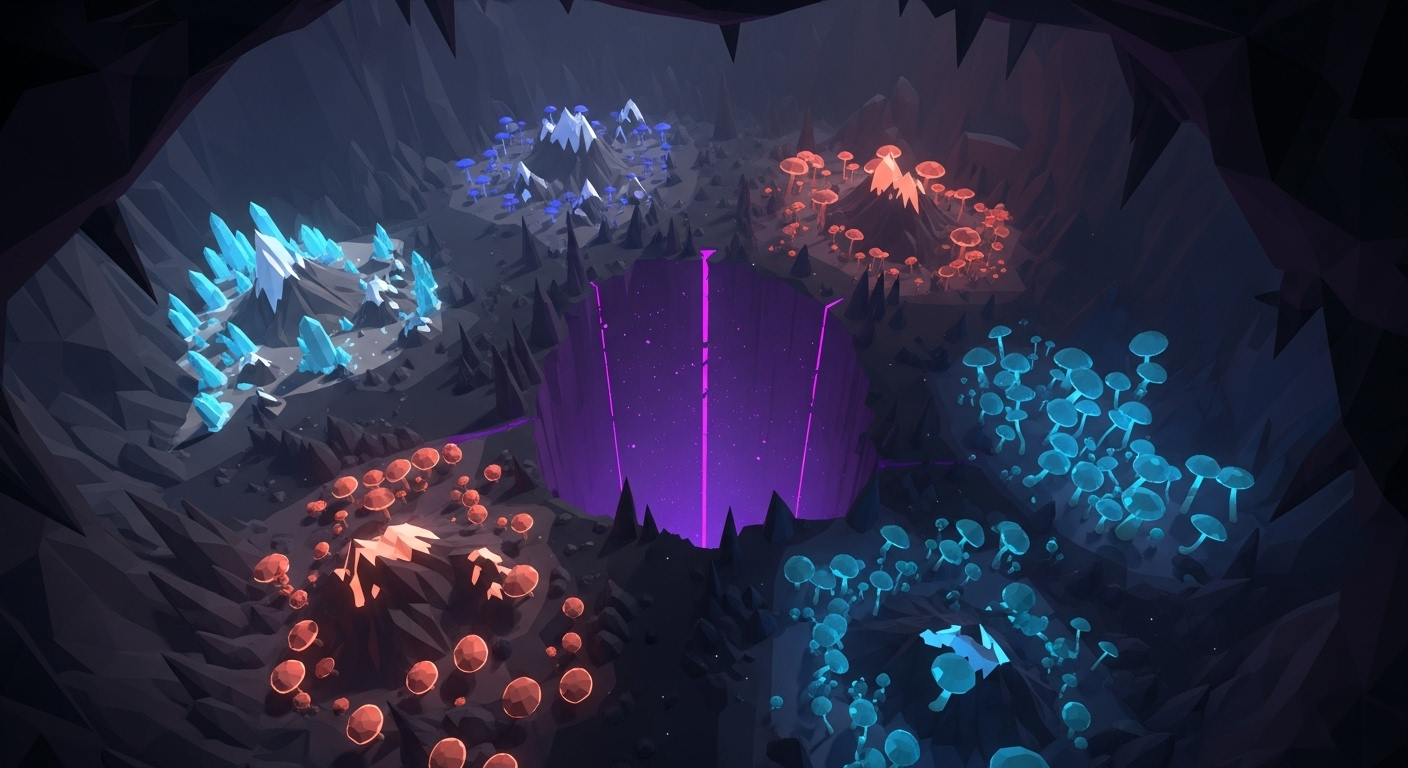
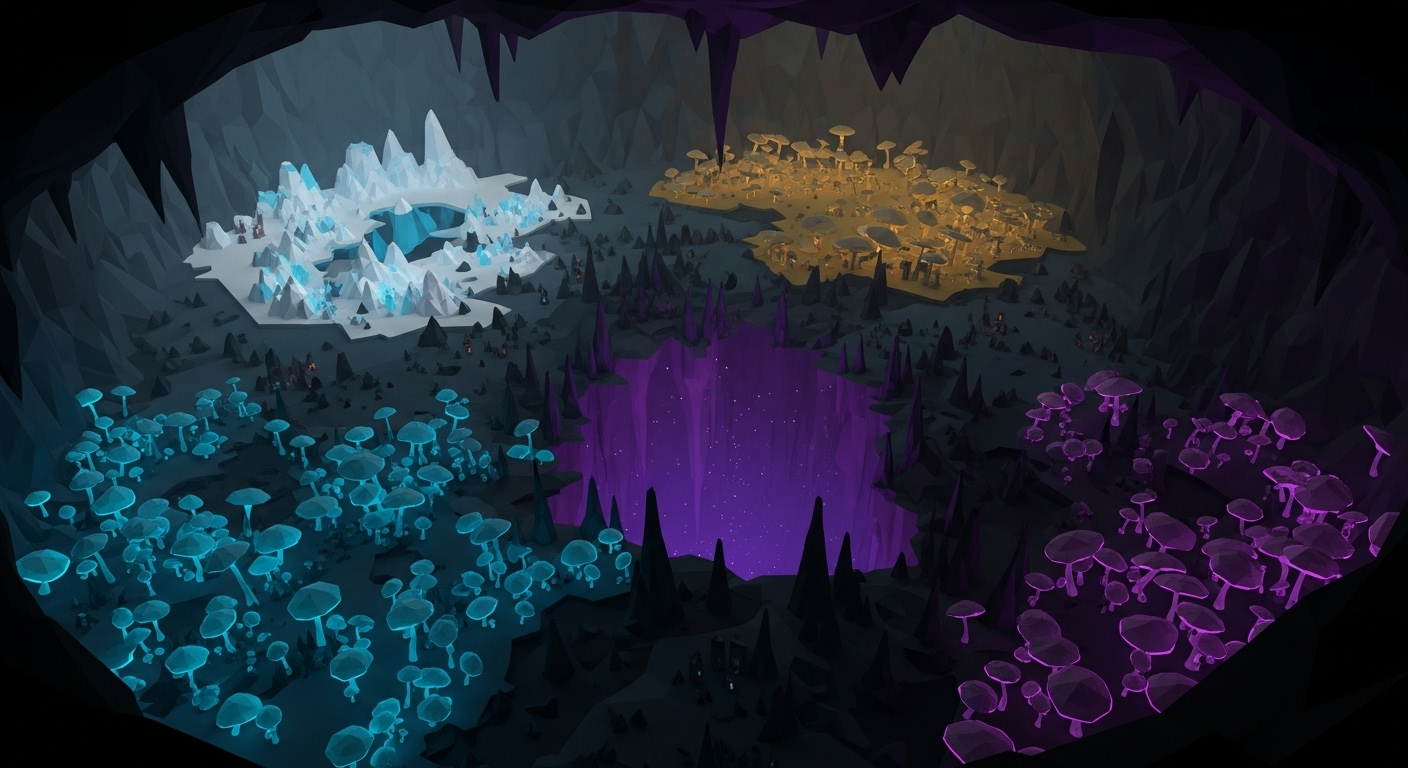
realms and sub realms images added

diff --git a/data/realms.js b/data/realms.js
@@ -10,7 +10,7 @@ export const REALMS = [
         zones: {
             "green_meadows": {
                 name: "Green Meadows",
-                mapImage: "images/map_meadows_zoomed.png",
+                mapImage: "images/backgrounds/sub_zone/map_meadows_zoomed.png",
                 monsterAreaBg: "images/backgrounds/bg_green_meadows.png",
                 coords: { top: '78%', left: '20%' },
                 icon: 'images/icons/green_meadows.png',
@@ -35,7 +35,7 @@ export const REALMS = [
             },
             "orc_volcano": {
                 name: "Orc Volcano",
-                mapImage: "images/map_volcano_zoomed.png",
+                mapImage: "images/backgrounds/sub_zone/map_volcano_zoomed.png",
                 monsterAreaBg: "images/backgrounds/bg_orc_volcano.png",
                 coords: { top: '30%', left: '38%' },
                 icon: 'images/icons/orc_volcano.png',
@@ -60,7 +60,7 @@ export const REALMS = [
             },
             "undead_desert": {
                 name: "Undead Desert",
-                mapImage: "images/map_desert_zoomed.png",
+                mapImage: "images/backgrounds/sub_zone/map_desert_zoomed.png",
                 monsterAreaBg: "images/backgrounds/bg_undead_desert.png",
                 coords: { top: '70%', left: '75%' },
                 icon: 'images/icons/undead_desert.png',
@@ -85,7 +85,7 @@ export const REALMS = [
             },
             "final_dungeon": {
                 name: "Final Dungeon",
-                mapImage: "images/map_dungeon_zoomed.png",
+                mapImage: "images/backgrounds/sub_zone/map_dungeon_zoomed.png",
                 monsterAreaBg: "images/backgrounds/bg_final_dungeon.png",
                 coords: { top: '22%', left: '78%' },
                 icon: 'images/icons/final_dungeon.png',
@@ -180,7 +180,7 @@ export const REALMS = [
             },
             "abyssal_rift": {
                 name: "Abyssal Rift",
-                mapImage: "images/map_abyss_zoomed.png",
+                mapImage: "images/backgrounds/sub_zone/map_abyss_zoomed.png",
                 monsterAreaBg: "images/backgrounds/bg_abyss.png",
                 coords: { top: '15%', left: '85%' },
                 icon: 'images/icons/sword.png',
@@ -202,7 +202,7 @@ export const REALMS = [
         zones: {
             "tide_wracked_coast": {
                 name: "Tide-Wracked Coast",
-                mapImage: "images/map_caves_zoomed.png", // Placeholder
+                mapImage: "images/backgrounds/sub_zone/map_caves_zoomed.png", // Placeholder
                 monsterAreaBg: "images/backgrounds/bg_caves.png", // Placeholder
                 coords: { top: '78%', left: '20%' }, // Placeholder
                 icon: 'images/icons/green_meadows.png', // Placeholder
@@ -217,7 +217,7 @@ export const REALMS = [
             },
             "sunken_city": {
                 name: "Sunken City",
-                mapImage: "images/map_volcano_zoomed.png", // Placeholder
+                mapImage: "images/backgrounds/sub_zone/map_volcano_zoomed.png", // Placeholder
                 monsterAreaBg: "images/backgrounds/bg_orc_volcano.png", // Placeholder
                 coords: { top: '30%', left: '38%' }, // Placeholder
                 icon: 'images/icons/orc_volcano.png', // Placeholder
@@ -232,7 +232,7 @@ export const REALMS = [
             },
             "bioluminescent_trench": {
                 name: "Bioluminescent Trench",
-                mapImage: "images/map_desert_zoomed.png", // Placeholder
+                mapImage: "images/backgrounds/sub_zone/map_desert_zoomed.png", // Placeholder
                 monsterAreaBg: "images/backgrounds/bg_undead_desert.png", // Placeholder
                 coords: { top: '70%', left: '75%' }, // Placeholder
                 icon: 'images/icons/undead_desert.png', // Placeholder
@@ -247,7 +247,7 @@ export const REALMS = [
             },
             "void_maw": {
                 name: "Void Maw",
-                mapImage: "images/map_dungeon_zoomed.png", // Placeholder
+                mapImage: "images/backgrounds/sub_zone/map_dungeon_zoomed.png", // Placeholder
                 monsterAreaBg: "images/backgrounds/bg_final_dungeon.png", // Placeholder
                 coords: { top: '22%', left: '78%' }, // Placeholder
                 icon: 'images/icons/final_dungeon.png', // Placeholder
@@ -269,7 +269,7 @@ export const REALMS = [
         zones: {
             "azure_pathway": {
                 name: "Azure Pathway",
-                mapImage: "images/map_caves_zoomed.png", // Placeholder
+                mapImage: "images/backgrounds/sub_zone/map_caves_zoomed.png", // Placeholder
                 monsterAreaBg: "images/backgrounds/bg_caves.png", // Placeholder
                 coords: { top: '78%', left: '20%' }, // Placeholder
                 icon: 'images/icons/green_meadows.png', // Placeholder
@@ -284,7 +284,7 @@ export const REALMS = [
             },
             "halls_of_valor": {
                 name: "Halls of Valor",
-                mapImage: "images/map_volcano_zoomed.png", // Placeholder
+                mapImage: "images/backgrounds/sub_zone/map_volcano_zoomed.png", // Placeholder
                 monsterAreaBg: "images/backgrounds/bg_orc_volcano.png", // Placeholder
                 coords: { top: '30%', left: '38%' }, // Placeholder
                 icon: 'images/icons/orc_volcano.png', // Placeholder
@@ -299,7 +299,7 @@ export const REALMS = [
             },
             "astral_sea": {
                 name: "Astral Sea",
-                mapImage: "images/map_desert_zoomed.png", // Placeholder
+                mapImage: "images/backgrounds/sub_zone/map_desert_zoomed.png", // Placeholder
                 monsterAreaBg: "images/backgrounds/bg_undead_desert.png", // Placeholder
                 coords: { top: '70%', left: '75%' }, // Placeholder
                 icon: 'images/icons/undead_desert.png', // Placeholder
@@ -314,7 +314,7 @@ export const REALMS = [
             },
             "empyrean_throne": {
                 name: "Empyrean Throne",
-                mapImage: "images/map_dungeon_zoomed.png", // Placeholder
+                mapImage: "images/backgrounds/sub_zone/map_dungeon_zoomed.png", // Placeholder
                 monsterAreaBg: "images/backgrounds/bg_final_dungeon.png", // Placeholder
                 coords: { top: '22%', left: '78%' }, // Placeholder
                 icon: 'images/icons/final_dungeon.png', // Placeholder
@@ -336,7 +336,7 @@ export const REALMS = [
         zones: {
             "mana_wastes": {
                 name: "Mana Wastes",
-                mapImage: "images/map_caves_zoomed.png", // Placeholder
+                mapImage: "images/backgrounds/sub_zone/map_caves_zoomed.png", // Placeholder
                 monsterAreaBg: "images/backgrounds/bg_caves.png", // Placeholder
                 coords: { top: '78%', left: '20%' }, // Placeholder
                 icon: 'images/icons/green_meadows.png', // Placeholder
@@ -351,7 +351,7 @@ export const REALMS = [
             },
             "clockwork_city": {
                 name: "Clockwork City",
-                mapImage: "images/map_volcano_zoomed.png", // Placeholder
+                mapImage: "images/backgrounds/sub_zone/map_volcano_zoomed.png", // Placeholder
                 monsterAreaBg: "images/backgrounds/bg_orc_volcano.png", // Placeholder
                 coords: { top: '30%', left: '38%' }, // Placeholder
                 icon: 'images/icons/orc_volcano.png', // Placeholder
@@ -366,7 +366,7 @@ export const REALMS = [
             },
             "rune_scriptorium": {
                 name: "Rune Scriptorium",
-                mapImage: "images/map_desert_zoomed.png", // Placeholder
+                mapImage: "images/backgrounds/sub_zone/map_desert_zoomed.png", // Placeholder
                 monsterAreaBg: "images/backgrounds/bg_undead_desert.png", // Placeholder
                 coords: { top: '70%', left: '75%' }, // Placeholder
                 icon: 'images/icons/undead_desert.png', // Placeholder
@@ -381,7 +381,7 @@ export const REALMS = [
             },
             "nexus_of_creation": {
                 name: "Nexus of Creation",
-                mapImage: "images/map_dungeon_zoomed.png", // Placeholder
+                mapImage: "images/backgrounds/sub_zone/map_dungeon_zoomed.png", // Placeholder
                 monsterAreaBg: "images/backgrounds/bg_final_dungeon.png", // Placeholder
                 coords: { top: '22%', left: '78%' }, // Placeholder
                 icon: 'images/icons/final_dungeon.png', // Placeholder
